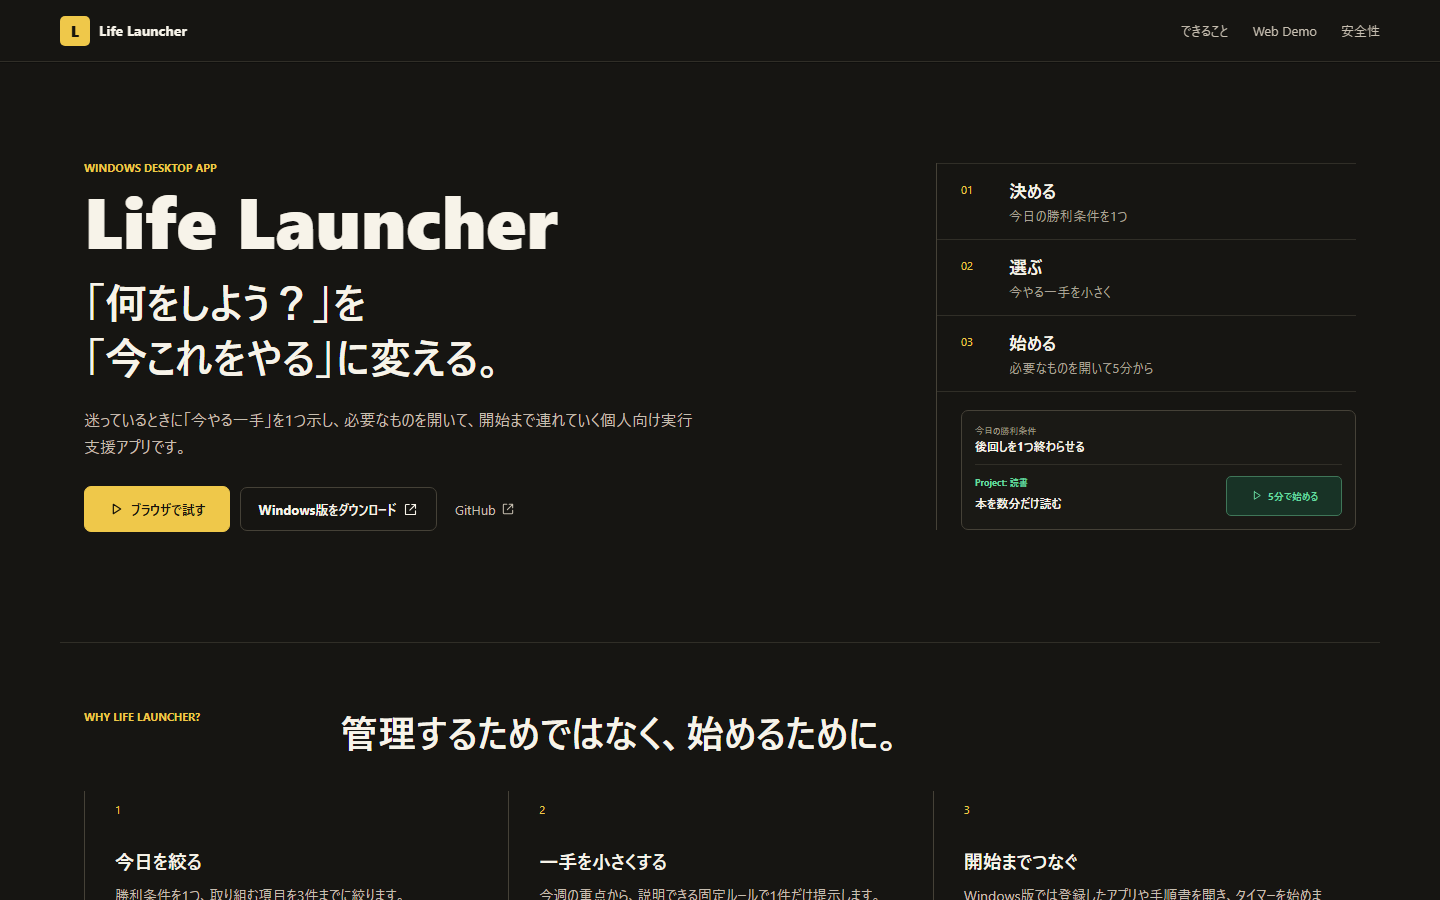
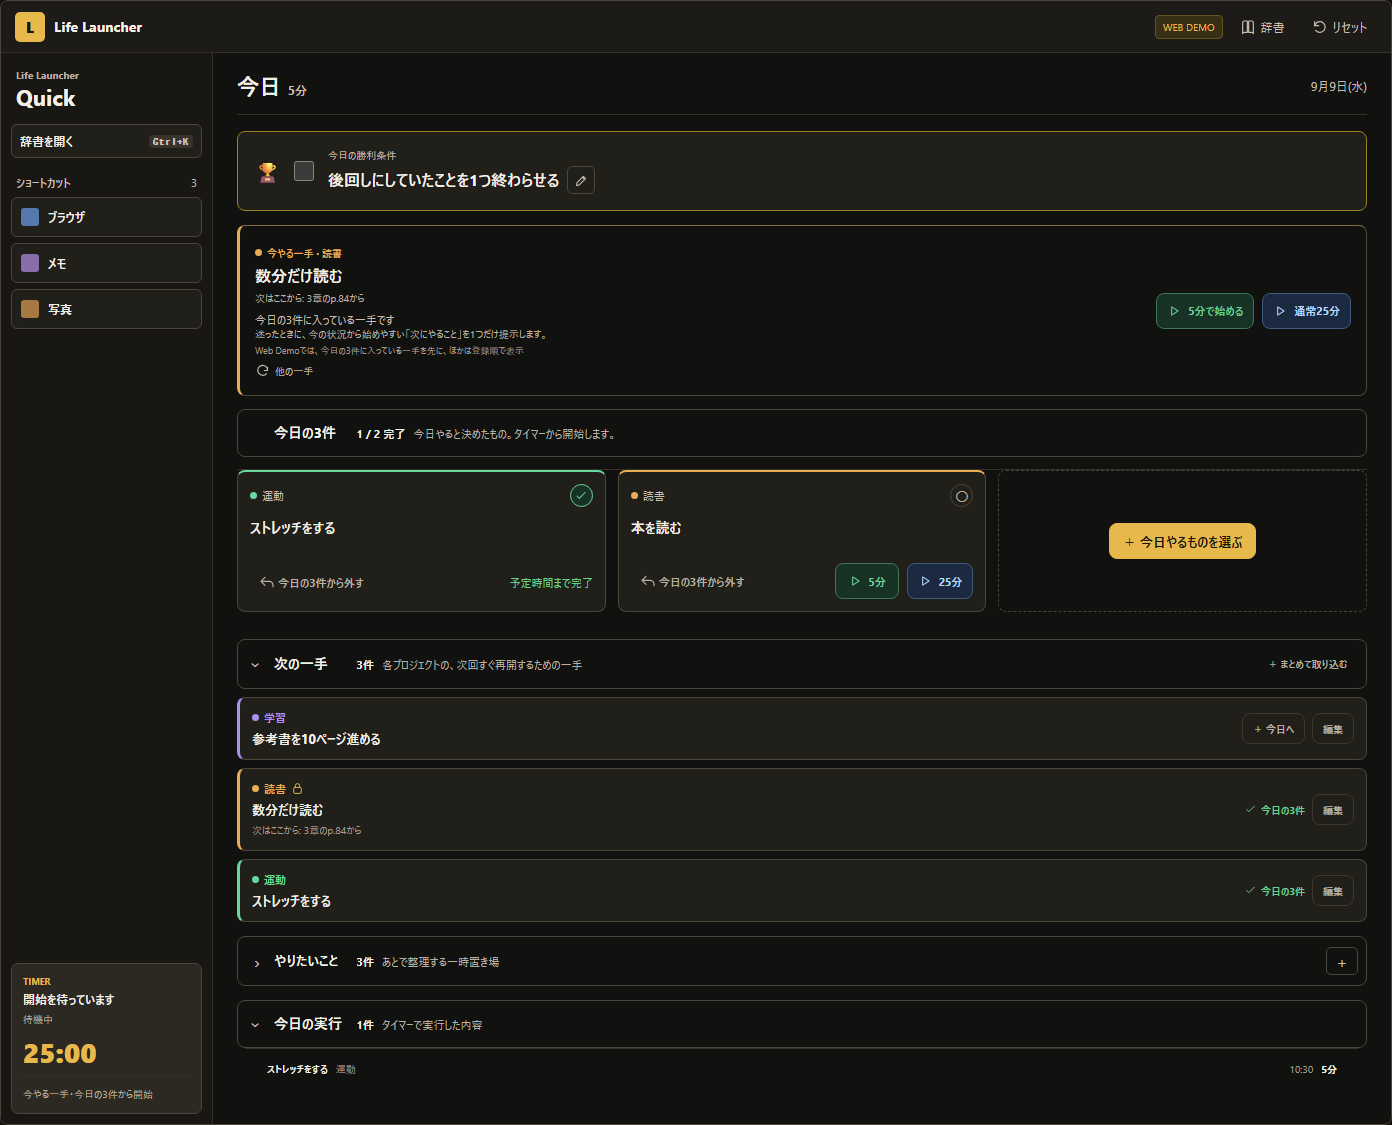
docs: add the v1.6 screenshots, README and release gate (W15-03b)
Refresh the README image and scope, document the v1.6.3 additions, update the README checks, regenerate the OG image, and record the release gate.

diff --git a/src/demo/sync-docs.test.ts b/src/demo/sync-docs.test.ts
@@ -14,16 +14,18 @@ it("shipped copy no longer promises manual Today completion or a free-input Buil
 
 it("published README references a real synthetic PNG and documents current demo limits", () => {
   const readme = readFileSync("README.md", "utf8");
-  expect(readme).toContain("docs/screenshots/web-demo-v1.4.png");
-  expect(readme).toContain("Life Launcher v1.4");
+  expect(readme).toContain("docs/screenshots/web-demo-v1.6.png");
+  expect(readme).toContain("Life Launcher v1.6.3");
   expect(readme).not.toContain("今日を組み立てる");
+  expect(readme).toContain("次はここから");
+  expect(readme).toContain("まとめて取り込む");
   expect(readme).toContain("今日の3件から外す");
   expect(readme).toContain("日付が変わっても自動ではリセットされません");
   expect(readme).toContain("満了未確定");
   expect(readme).toContain("localStorage");
   expect(readme).toContain("releases/latest");
   expect(readme).not.toContain("releases/tag/v1.0.0");
-  const png = readFileSync("docs/screenshots/web-demo-v1.4.png");
+  const png = readFileSync("docs/screenshots/web-demo-v1.6.png");
   expect(png.subarray(1, 4).toString()).toBe("PNG");
   expect(png.readUInt32BE(16)).toBeGreaterThan(1000);
   expect(png.readUInt32BE(20)).toBeGreaterThan(500);

diff --git a/docs/v1.6/03-release-gate.md b/docs/v1.6/03-release-gate.md
@@ -1,0 +1,89 @@
+READY FOR PRODUCTION APPROVAL
+
+# W15 Web Demo v1.6.3 世代更新(判定書)
+
+- 確認日: 2026-11-23
+- ブランチ: `release/w15-v1.6-demo`(起点は `main` = `f887385`)
+- 本番: https://life-launcher-web.takuyakou.workers.dev/(この段階では反映していない)
+- 参照した Windows 版: `Takuyakou/life-launcher` タグ `v1.6.3`
+- 新しい依存は足していない(`package.json`・`package-lock.json` は無変更)
+
+## 判定
+
+**`READY FOR PRODUCTION APPROVAL`**。`public:check`・lint・単体テスト・build・本番相当E2E・Visual QA はすべて通過しました。push・PR・マージ・Cloudflare への反映はしていません。
+
+## コミット一覧(`f887385..HEAD`)
+
+| 段 | コミット | 内容 |
+| --- | --- | --- |
+| W15-01a | `ed6bbe1` | `goal` / `resumeNote` の型・保存・初期データ・reducer・「次はここから」表示 |
+| W15-01b | `8f2dc6b` | `EXTEND_TIMER` と満了ダイアログ刷新(延長分数、「次はここから」「次の次の一手」) |
+| W15-01c | `57080ea` | 今日やるものを選ぶ画面の刷新(単一保存点、絞り込み、その場追加、3枠の並べ替え) |
+| W15-01d | `71d000b` | v1.6.3 の色・角丸・影トークン、Before/After 見本 |
+| W15-02a | `665208a` | ブラウザ完結の取り込み読み取り・検証・計画(`importDemo.ts` と単体テスト) |
+| W15-02b | `5670f92` | 3段の取り込みダイアログ、導線、`COMMIT_IMPORT` / `UNDO_IMPORT`、5秒の「元に戻す」 |
+| W15-03a | `3229759` | 既存 E2E / Visual の仕様同期と W15 の新規テスト |
+| W15-03b | この文書のコミット | スクリーンショット・OG 画像・README・この判定書 |
+
+## 確認の表
+
+| 確認 | 結果 |
+| --- | --- |
+| `npm run public:check` | 通過。220 ファイル |
+| `npm run lint` | 通過。警告 0 |
+| `npm run test` | 通過。9 ファイル・107 件 |
+| `npm run build` | 通過。`dist` を生成 |
+| `WEB11_PREVIEW=1 npm run test:e2e` | 通過。**79 件、スキップなし**(本番と同じ CSP。`network.spec.ts`・コンソールエラー 0 を含む) |
+| `WEB11_PREVIEW=1 npm run test:visual` | 通過。26 件(1920 / 1440 / 1366 / 1000 / 390) |
+| `git diff --check` | 問題なし |
+| v1.3 公開データの互換 | `tests/e2e/w14-release.spec.ts` の「v1.3 public data is read unchanged by this version」を変更せずに通過。`schemaVersion: 3` と保存形式は変えていない |
+
+## 追加したテスト
+
+- 単体: `src/demo/importDemo.test.ts`(22 件)。プロンプト文面の構造、256 KB の UTF-8 バイト判定、Markdown 崩れの修復、30 プロジェクト / 100 やりたいこと上限、文字数上限、12 色→4 色、計画と適用、Undo。
+- 単体: `demo.test.ts` に延長・「次はここから」・今日やるものを選ぶ下書きの5つの不変条件・取り込みの指紋不一致・Undo を追加。`storage.test.ts` に 120 文字のプロジェクト名と `goal` / `resumeNote` の後方互換を追加。
+- E2E: `tests/e2e/w15-v16-features.spec.ts`(10 件)。満了4パターン、絞り込みとその場追加、破棄確認、保存失敗時の保持、取り込みと5秒 Undo、Undo 失敗時の再試行、フォーカストラップ、IME 変換中の Enter、Reduced Motion。
+- Visual: `tests/visual/w15-visual.spec.ts`(2 件)。1440 / 390 でメイン・選ぶ画面・満了ダイアログ・取り込みダイアログのはみ出しと収まりを確認。
+
+## 見た目の確認(Before / After)
+
+`docs/v1.6/mock/before/` と `docs/v1.6/mock/after/` に、トークン適用前後の次の画面を保存しました。
+
+- `main-1440.png` / `main-390.png`
+- `picker-1440.png` / `picker-390.png`
+- `completion-1440.png` / `completion-390.png`
+
+`docs/v1.6/mock/after/metrics.json` に、適用後の実測値を残しています。
+
+- 色トークンは `01-base.css` の確定値と一致(`--surface #211f1a`、`--gold #e7b94d`、`--green #6fcf97`、`--radius 8px` など)。
+- コントラスト比: 本文 14.48、注釈 6.04、選ぶ画面のフッター注記 6.7、選択中の絞り込みピル 7.21(いずれも 4.5 以上)。
+- はみ出し: 1440 / 390 ともにページ・選ぶ画面・満了ダイアログ・取り込みダイアログで 0。ダイアログは画面内に収まる。
+- 既存の Visual QA(`w14-visual-rules.spec.ts` ほか)も通過し、見出しの件数位置・重なり・フォーカスの輪に破綻はありません。
+
+画像の最終的な見た目の判断はオーナーの目視で行ってください。色・余白・コントラストに違和感があれば、マージ前に止めて知らせてください。
+
+## 既知の制限
+
+- Web Demo は Windows 製品版の完全移植ではありません。手順書ビューア、記録画面・今週を決める、設定画面の完全版、ミニタイマー・拡大タイマー、複雑な D&D 並べ替え、ZIP バックアップ、複数ディスプレイ対応は含みません。
+- 「まとめて取り込む」は、貼り付けた答えをブラウザ内だけで読みます。外部 AI への送信・問い合わせはしません。`trigger` / `minutes` / `shortMinutes` はプレビューに注記したうえで反映しません。
+- 取り込みはプロジェクトとやりたいことだけを変え、今日の3件・実行記録・タイマーには触れません。
+- 延長したタイマーは、再読み込みすると待機に戻ります(既存の Web Demo のルールどおり)。
+- 事前に確認している開発用依存の `npm audit` の扱いは、v1.4 の判定書([docs/v1.4/03-release-gate.md](../v1.4/03-release-gate.md))から変えていません。
+
+## 本番反映の手順(オーナーが行う)
+
+1. このブランチの CI が通っていることを確かめる。
+2. 「Create a merge commit」で `main` にマージする(squash しない)。Cloudflare の Git 連携が自動でビルドして本番に反映する。
+3. 公開 URL で、次の点を確かめる。
+   - 今やる一手に「次はここから: 3章のp.84から」が出る。
+   - 今日やるものを選ぶ画面が、絞り込みピル・その場追加・3枠・「決定」になっている。
+   - タイマー満了が「予定時間になりました」で、延長分数と「終わる」がある。
+   - 「まとめて取り込む」が開き、サンプル回答でプレビューが出る。
+4. 資産のハッシュとヘッダーが、マージ後のビルドと一致することを確かめる。
+
+戻し方: 公開 URL での確認で問題があれば、`main` のこのマージを revert する(同じ Git 連携で一つ前の版に戻る)。新しいデプロイの仕組みは足さない。
+
+## 提案
+
+- 「元に戻す」の対象はプロジェクトとやりたいことだけです。今日の3件まで戻したい場合は、次の版で範囲を決めてください。
+- 取り込みの指紋不一致(プレビュー後に別の変更が入った場合)は、1タブの操作では起きにくいため、E2E では保存失敗の経路で再生成を確認しています。複数タブを想定するなら、次の版でタブ間同期を扱ってください。
